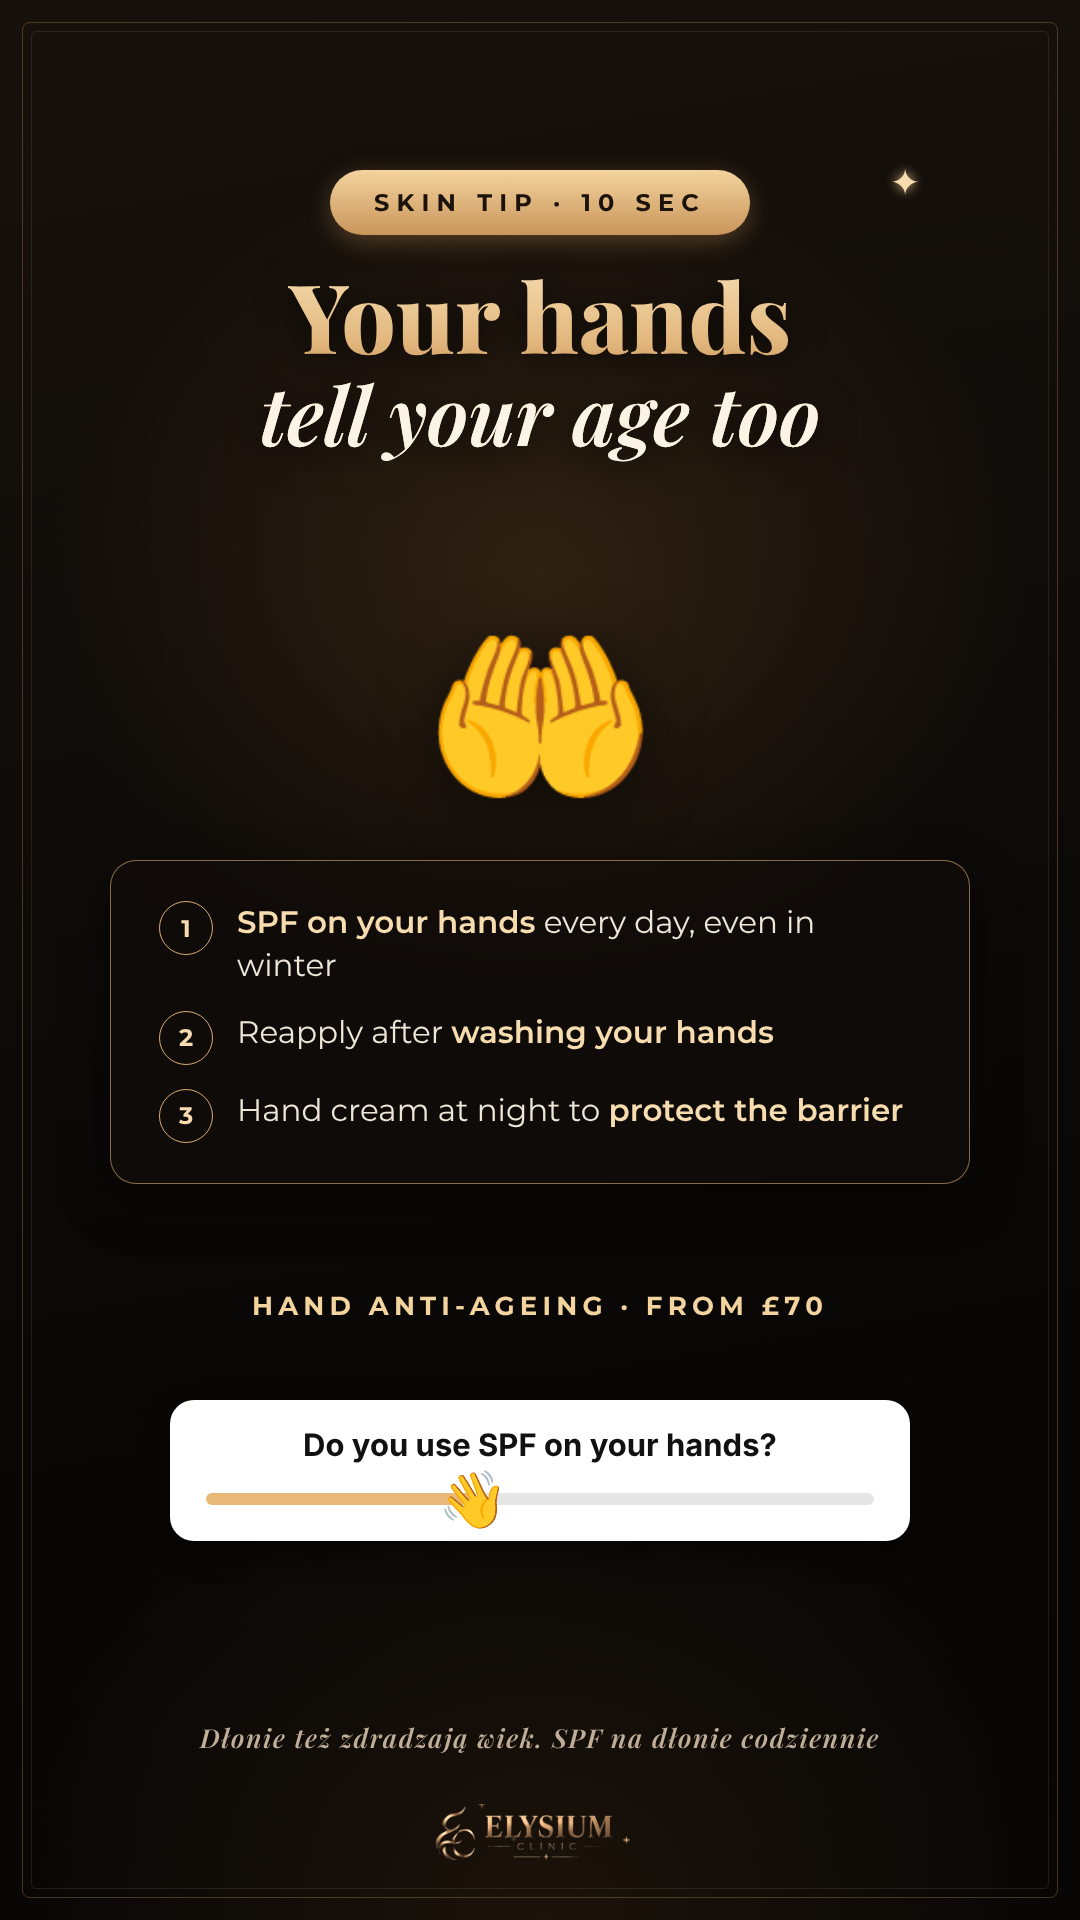
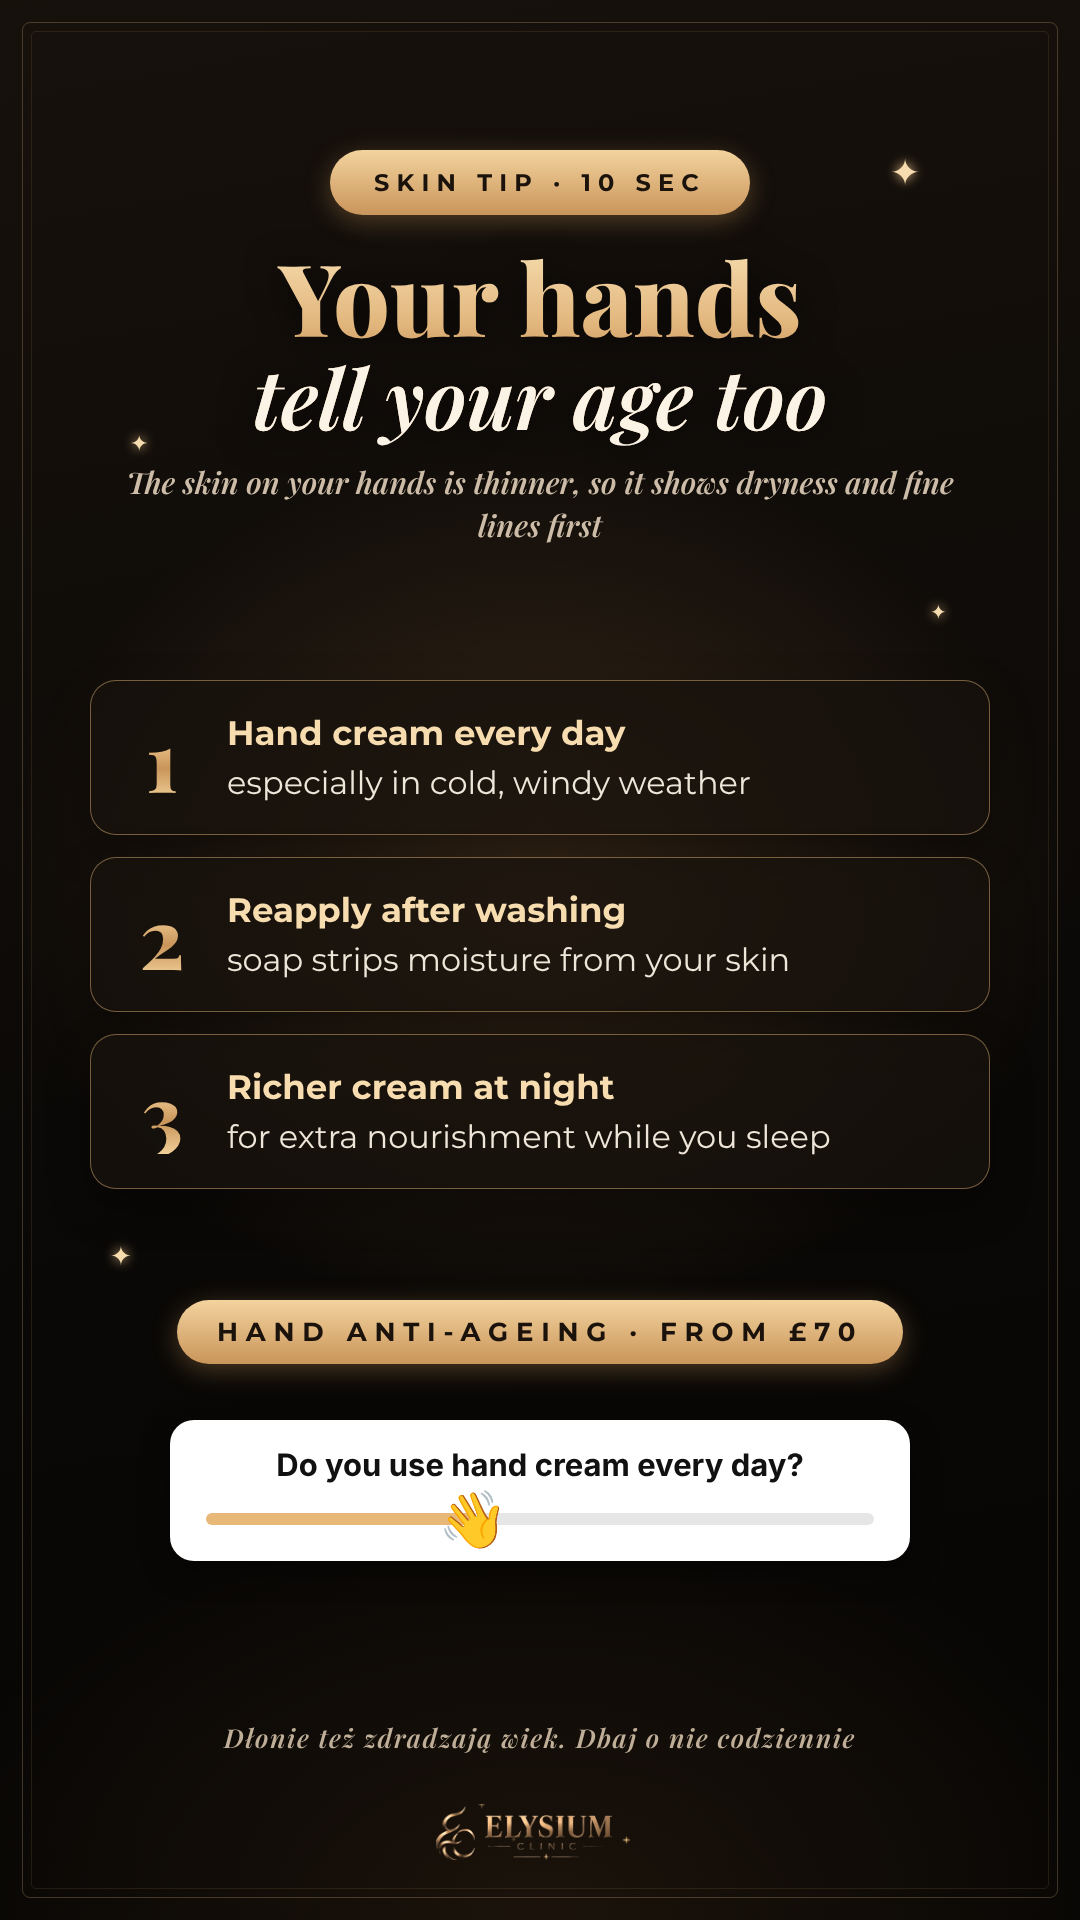
22.11: redesign hand care story, general hand cream instead of SPF
Claude-Session: https://claude.ai/code/session_01SaUhS5EeEBn7oMfuXG8zXf

diff --git a/posts_22_11/src/s2_1300.html b/posts_22_11/src/s2_1300.html
@@ -7,28 +7,29 @@
 .stk .bar i{position:absolute;left:40%;top:50%;transform:translate(-50%,-50%);font-style:normal;font-size:56px}
 .stk .ans{margin-top:18px;background:#f2f2f2;border-radius:16px;padding:22px;font-size:26px;color:#888}
 .zone{position:absolute;left:0;right:0;text-align:center;font-size:22px;letter-spacing:.3em;color:rgba(246,220,174,.85);font-weight:600}
-.top{position:absolute;top:170px;left:0;right:0;text-align:center}
-.h{font-size:96px;font-weight:800;line-height:1.04;margin-top:30px}
-.h em{display:block;font-style:italic;font-weight:600;font-size:80px;color:#fbf3e6;-webkit-text-fill-color:#fbf3e6;margin-top:6px}
-.big{position:absolute;left:0;right:0;top:600px;text-align:center;font-size:190px;filter:drop-shadow(0 10px 30px rgba(0,0,0,.5))}
-.card{position:absolute;left:110px;right:110px;top:860px;padding:40px 48px}
-.row{display:flex;gap:24px;align-items:flex-start;margin-bottom:24px}
-.row:last-child{margin-bottom:0}
-.row b{flex:0 0 54px;height:54px;border-radius:50%;border:1.5px solid var(--gold);display:flex;align-items:center;justify-content:center;color:var(--gold1);font-size:24px}
-.row p{font-size:31px;line-height:1.38;color:#efe6da}
-.row p i{color:var(--gold1);font-style:normal;font-weight:600}
-.offer{position:absolute;left:0;right:0;top:1290px;text-align:center;font-size:26px;letter-spacing:.2em;color:#f3d39e;font-weight:700}
+.s{background:radial-gradient(ellipse 760px 620px at 50% 46%,rgba(150,105,60,.30),transparent 70%),radial-gradient(ellipse 900px 600px at 50% 100%,rgba(90,60,30,.25),transparent 70%),linear-gradient(170deg,#17110c 0%,#0b0907 55%,#060504 100%)}
+.top{position:absolute;top:150px;left:0;right:0;text-align:center}
+.h{font-size:100px;font-weight:800;line-height:1.02;margin-top:30px}
+.h em{display:block;font-style:italic;font-weight:600;font-size:82px;color:#fbf3e6;-webkit-text-fill-color:#fbf3e6;margin-top:8px}
+.sub{margin:22px 120px 0;font-size:30px;line-height:1.45;color:#cdbda8;font-family:'Playfair Display',serif;font-style:italic}
+.blob{position:absolute;border-radius:50%;background:radial-gradient(circle at 35% 30%,rgba(255,248,236,.95),rgba(246,226,196,.55) 45%,rgba(216,173,116,0) 72%);filter:blur(1px)}
+.tips{position:absolute;left:90px;right:90px;top:680px;display:flex;flex-direction:column;gap:22px}
+.tip{display:flex;align-items:center;gap:30px;padding:30px 36px;border-radius:26px;background:rgba(24,18,12,.72);border:1.5px solid rgba(216,173,116,.5);box-shadow:0 18px 40px rgba(0,0,0,.35)}
+.tip .n{flex:0 0 auto;font-family:'Playfair Display',serif;font-size:84px;font-weight:800;line-height:1;width:70px;text-align:center}
+.tip .t{font-size:32px;line-height:1.35;color:#efe6da}
+.tip .t i{display:block;font-style:normal;font-weight:700;color:#f6dcae;font-size:34px;margin-bottom:4px}
+.offer{position:absolute;left:0;right:0;top:1300px;text-align:center}
 .pl{position:absolute;left:0;right:0;top:1720px;text-align:center}
 .logo{bottom:60px;width:210px}
 </style></head><body><div class="s"><div class="deco"></div>
-<div class="spark" style="left:890px;top:160px;font-size:36px">✦</div>
-<div class="top"><div class="pill">SKIN TIP · 10 SEC</div><div class="h goldtext serif ds">Your hands<em>tell your age too</em></div></div>
-<div class="big">🤲</div>
-<div class="card glass">
-<div class="row"><b>1</b><p><i>SPF on your hands</i> every day, even in winter</p></div>
-<div class="row"><b>2</b><p>Reapply after <i>washing your hands</i></p></div>
-<div class="row"><b>3</b><p>Hand cream at night to <i>protect the barrier</i></p></div></div>
-<div class="offer">HAND ANTI-AGEING · FROM £70</div>
+<div class="spark" style="left:890px;top:150px;font-size:36px">✦</div><div class="spark" style="left:130px;top:430px;font-size:22px">✦</div><div class="spark" style="left:930px;top:600px;font-size:20px">✦</div><div class="spark" style="left:110px;top:1240px;font-size:26px">✦</div>
+<div class="top"><div class="pill">SKIN TIP · 10 SEC</div><div class="h goldtext serif ds">Your hands<em>tell your age too</em></div>
+<div class="sub">The skin on your hands is thinner, so it shows dryness and fine lines first</div></div>
+<div class="tips">
+<div class="tip"><div class="n goldtext">1</div><div class="t"><i>Hand cream every day</i>especially in cold, windy weather</div></div>
+<div class="tip"><div class="n goldtext">2</div><div class="t"><i>Reapply after washing</i>soap strips moisture from your skin</div></div>
+<div class="tip"><div class="n goldtext">3</div><div class="t"><i>Richer cream at night</i>for extra nourishment while you sleep</div></div></div>
+<div class="offer"><div class="pill" style="font-size:26px;padding:16px 40px">HAND ANTI-AGEING · FROM £70</div></div>
 __STK__
-<div class="pl">Dłonie też zdradzają wiek. SPF na dłonie codziennie</div>
+<div class="pl">Dłonie też zdradzają wiek. Dbaj o nie codziennie</div>
 <div class="logo"><img src="logo.png"></div></div></body></html>

diff --git a/posts_22_11/src/render.js b/posts_22_11/src/render.js
@@ -4,11 +4,11 @@ const D=__dirname,OUT=path.join(D,'..');
 const z=(t)=>`<div class="zone" style="top:${t}px">`;
 const POLL='<div class="stk" style="top:1420px"><div class="qq">What bothers you more?</div><div class="opts"><div>JAWLINE</div><div>WRINKLES</div></div></div>';
 const ASK='<div class="stk" style="top:1050px"><div class="qq">Ask me anything about skin 🤍</div><div class="ans">Type something…</div></div>';
-const SLIDE='<div class="stk" style="top:1400px"><div class="qq">Do you use SPF on your hands?</div><div class="bar"><i>👋</i></div></div>';
+const SLIDE='<div class="stk" style="top:1420px"><div class="qq">Do you use hand cream every day?</div><div class="bar"><i>👋</i></div></div>';
 const jobs=[
  ['s1_0930','story1_0930_ankieta_owal_zmarszczki.png',z(1470)+'↓ POLL ↓</div>'],['s1_0930','podglad_story1_ankieta.png',POLL],
  ['s1b_0935','story1b_0935_zapytaj_mnie.png',z(1120)+'↓ QUESTION ↓</div>'],['s1b_0935','podglad_story1b_pytanie.png',ASK],
- ['s2_1300','story2_1300_spf_dlonie.png',z(1460)+'↓ EMOJI SLIDER ↓</div>'],['s2_1300','podglad_story2_suwak.png',SLIDE],
+ ['s2_1300','story2_1300_dlonie.png',z(1470)+'↓ EMOJI SLIDER ↓</div>'],['s2_1300','podglad_story2_suwak.png',SLIDE],
  ['s3_1800','story3_1800_8_days_left.png',''],
  ['post_8dni','post_zapasowy_8_days_left_1080x1350.png','',1350]];
 (async()=>{const b=await chromium.launch();

diff --git a/posts_22_11/teksty.md b/posts_22_11/teksty.md
@@ -96,10 +96,11 @@ Zostało 8 dni Black Friday w Elysium 🖤 RF mikroigłowy £110 · ElastiStrom 
 - Na grafice jest obietnica: „I’ll answer on camera this week”. Odpowiedzi zbieraj na Q&A w tygodniu (nagranie Moniki).
 - Podgląd: `podglad_story1b_pytanie.png`.
 
-## STORY 2 (13:00): `story2_1300_spf_dlonie.png`
-- „Your hands tell your age too” i 3 porady: SPF codziennie, ponownie po umyciu rąk, krem na noc. Pod spodem „Hand Anti-Ageing from £70”.
-- **Naklejka Suwak emoji** 👋 w miejscu „EMOJI SLIDER ↓”: „Do you use SPF on your hands?”.
-- Wersja z Moniką: nagraj ją, jak nakłada krem z SPF na dłonie, i wrzuć tę planszę zaraz po wideo.
+## STORY 2 (13:00): `story2_1300_dlonie.png`
+- „Your hands tell your age too”: skóra dłoni jest cieńsza, więc szybciej widać na niej suchość i zmarszczki.
+- 3 porady: krem do rąk codziennie, ponownie po umyciu rąk, bogatszy krem na noc. Pod spodem „Hand Anti-Ageing · from £70”.
+- **Naklejka Suwak emoji** 👋 w miejscu „EMOJI SLIDER ↓”: „Do you use hand cream every day?”.
+- Wersja z Moniką: nagraj ją, jak wmasowuje krem w dłonie, i wrzuć tę planszę zaraz po wideo.
 - Podgląd: `podglad_story2_suwak.png`.
 
 ## STORY 3 (18:00): `story3_1800_8_days_left.png`
